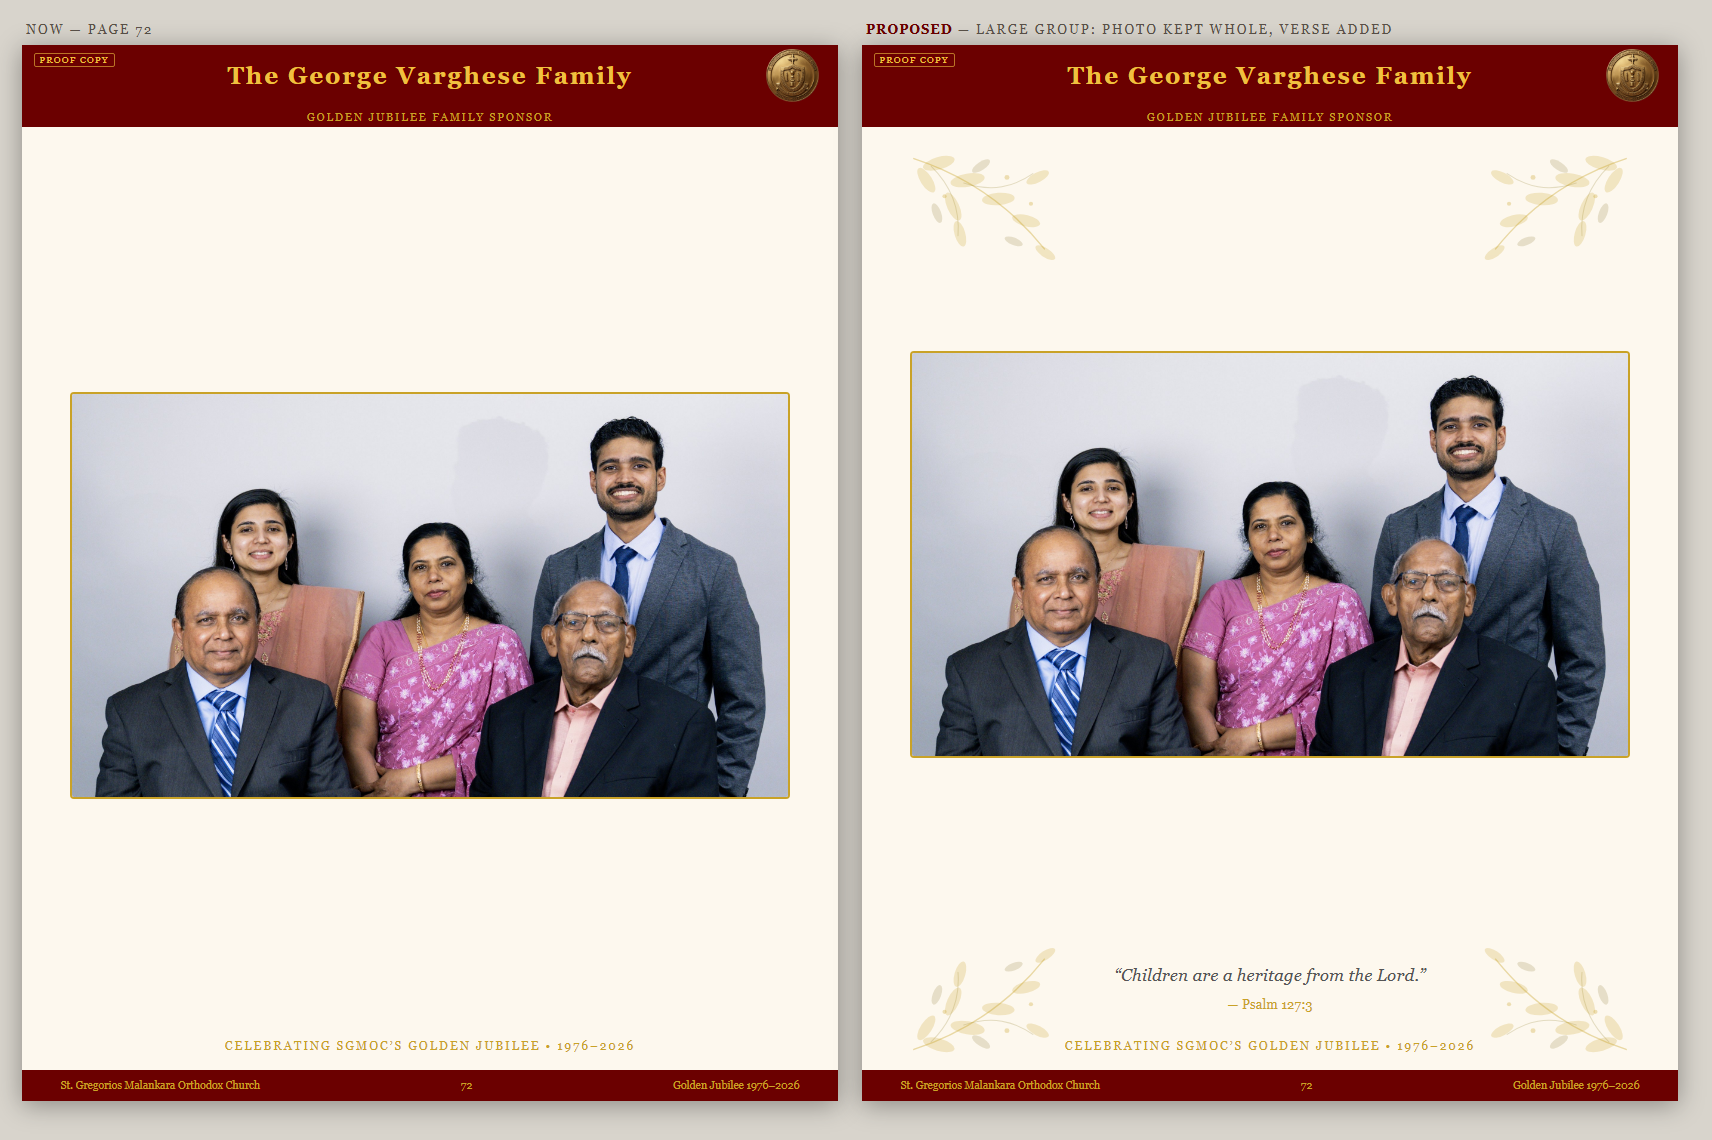
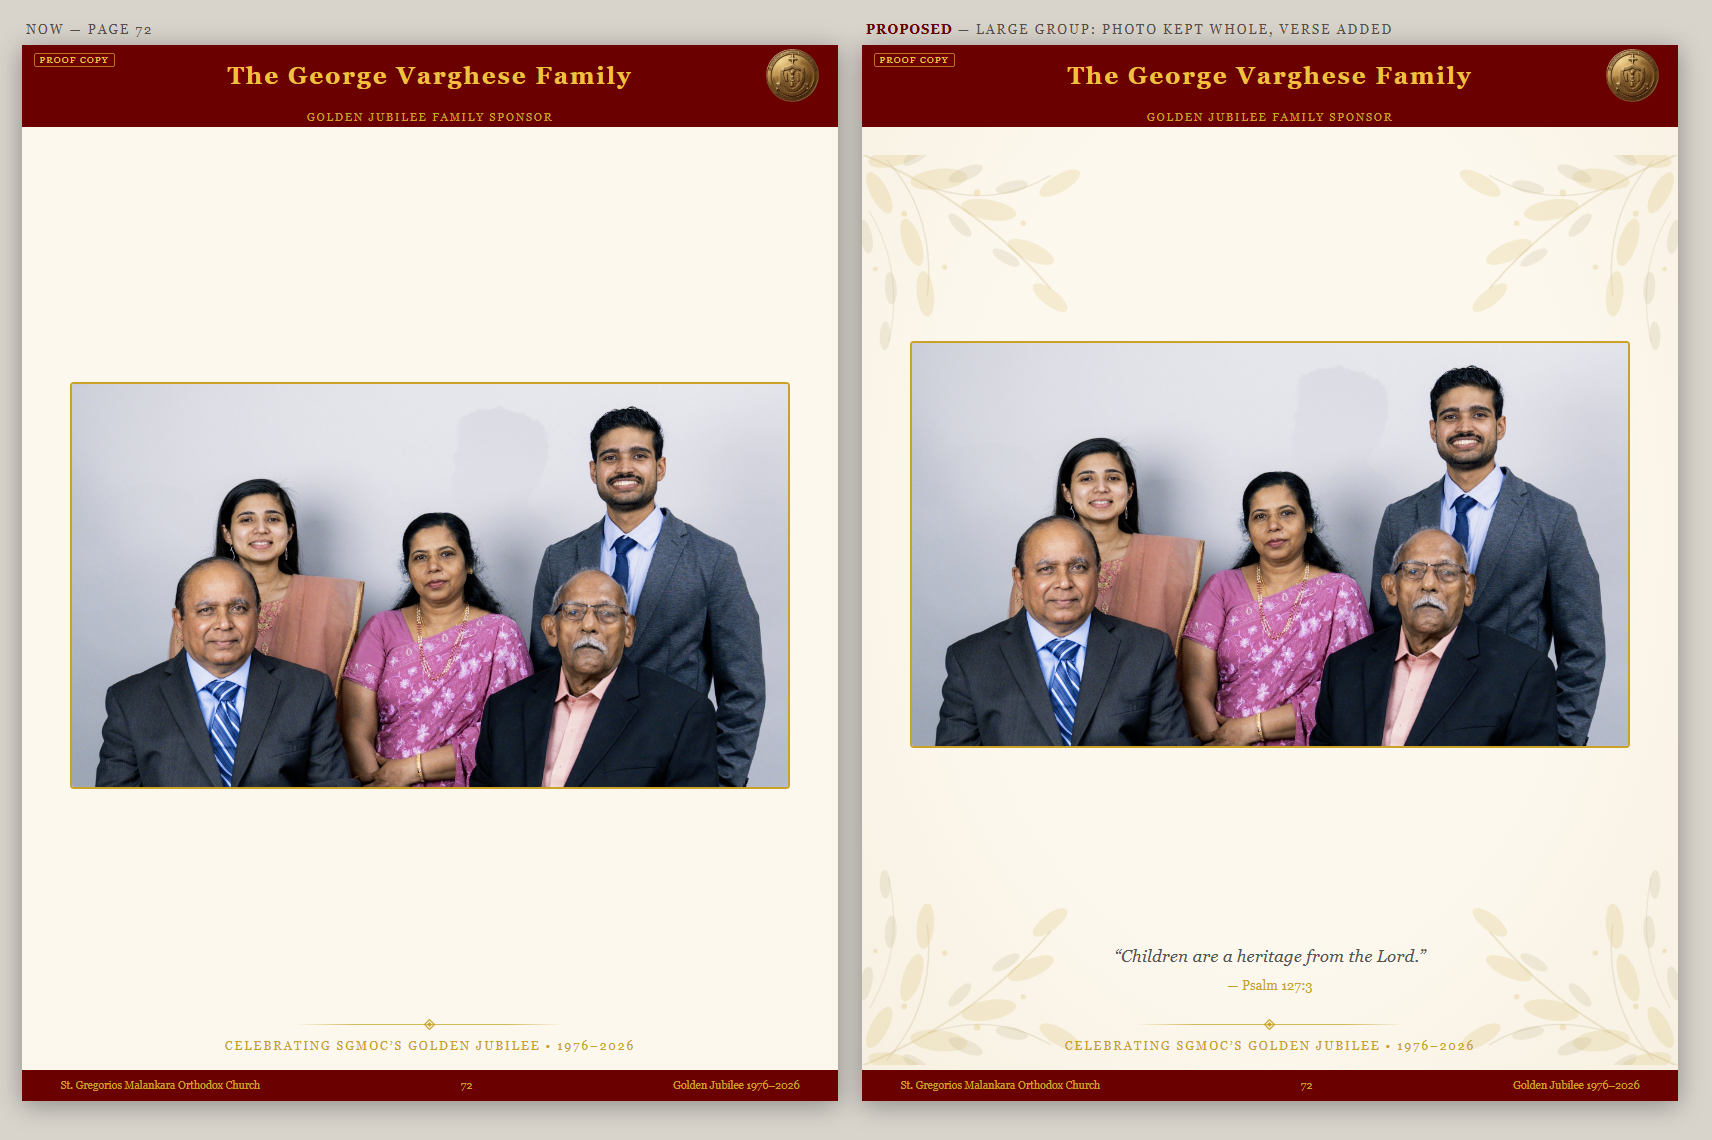
Crop the A. O. Abraham photos at source and stack them
Both submissions are photographs of framed prints. The frame rail, mat
and glare are cropped away at source, and the two photos now stack
rather than sitting side by side, so each is about 4.4in tall instead of
3.1in wide with nobody cut off. Side-by-side plus crop-to-fill was worse:
it sliced two people out of the group entirely.

Ornament is denser and reaches the page edges, with an aged edge tone and
a gold diamond divider, but is turned down and pulled in on pages with
writing so no leaf sits behind type.

Claude-Session: https://claude.ai/code/session_01VzfEJnHEP3TqbV477Pubb4

diff --git a/review-layout.html b/review-layout.html
@@ -154,8 +154,8 @@
       </div>
       <div class="rule-card">
         <span class="n">Also</span>
-        <h3>Corner ornament</h3>
-        <p>A leaf motif drawn to match the one on his mock-ups, on every family page. His came from outside our build, so this is an equivalent, not his file.</p>
+        <h3>Ornament and divider</h3>
+        <p>Denser corner sprays running out to the page edges, a warm aged tone towards the margins, and a gold rule with a centred diamond above the closing line — closer to his 16 September page. Fainter and pulled in on any page carrying writing, so no leaf sits behind a line of type.</p>
         <span class="count">80 pages</span>
       </div>
     </div>
@@ -169,7 +169,7 @@
     <p class="lede">Left is the page as it stands today; right is the same page rebuilt. Page numbers are unchanged.</p>
 
     <figure>
-      <img src="images/review/compare/babu-varghese.png?v=2" alt="The Babu Varghese Family page, before and after: the photo fills more of the page and a verse sits below it">
+      <img src="images/review/compare/babu-varghese.png?v=3" alt="The Babu Varghese Family page, before and after: the photo fills more of the page and a verse sits below it">
       <figcaption>
         <span class="pg">Page 58 · Babu Varghese</span>
         <span class="what">The page he signed off on. Photo takes more of the page, verse set larger.</span>
@@ -178,7 +178,7 @@
     </figure>
 
     <figure>
-      <img src="images/review/compare/manoj-samuel.png?v=2" alt="The Manoj Samuel Family page, before and after: the photo is cropped to fill the page">
+      <img src="images/review/compare/manoj-samuel.png?v=3" alt="The Manoj Samuel Family page, before and after: the photo is cropped to fill the page">
       <figcaption>
         <span class="pg">Page 87 · Manoj Samuel</span>
         <span class="what">Crop to fill, and the only page it is switched on for — three people, nobody lost.</span>
@@ -187,7 +187,7 @@
     </figure>
 
     <figure>
-      <img src="images/review/compare/george-varghese.png?v=2" alt="The George Varghese Family page, before and after: photo kept whole with a verse added below">
+      <img src="images/review/compare/george-varghese.png?v=3" alt="The George Varghese Family page, before and after: photo kept whole with a verse added below">
       <figcaption>
         <span class="pg">Page 72 · George Varghese</span>
         <span class="what">A large group, so the photo stays whole and a verse fills the space instead.</span>
@@ -196,16 +196,16 @@
     </figure>
 
     <figure>
-      <img src="images/review/compare/a-o-abraham.png?v=2" alt="The A. O. Abraham Family page, before and after: both photos enlarged with a verse below">
+      <img src="images/review/compare/a-o-abraham.png?v=3" alt="The A. O. Abraham Family page, before and after: both photos enlarged with a verse below">
       <figcaption>
         <span class="pg">Page 48 · A. O. Abraham</span>
-        <span class="what">His own mock-up cropped these two. Automatic cropping threw away the portrait frames and led with a band of wall, so they stay whole for now.</span>
-        <span class="flag hold">Needs a hand-picked crop</span>
+        <span class="what">Both submissions are photographs of framed prints, so the frame rail, mat and glare are now cropped away at source, and the two photos stack instead of sitting side by side — each about 4.4in tall rather than 3.1in wide, with nobody cut off. Still short of his version: his photos are portrait, which means he worked from the family's original files rather than our photographs of the frames.</span>
+        <span class="flag hold">Wants the original files</span>
       </figcaption>
     </figure>
 
     <figure>
-      <img src="images/review/compare/jacob-george.png?v=2" alt="The Jacob George Family page, before and after: both photos enlarged with a verse below">
+      <img src="images/review/compare/jacob-george.png?v=3" alt="The Jacob George Family page, before and after: both photos enlarged with a verse below">
       <figcaption>
         <span class="pg">Page 75 · Jacob George</span>
         <span class="what">The page he named. Automatic cropping deleted the baby from the left photo and halved a woman at the edge of the right one.</span>
@@ -214,7 +214,7 @@
     </figure>
 
     <figure>
-      <img src="images/review/compare/betcy-allen.png?v=2" alt="The Betcy Allen Family page, before and after: photo top left with text flowing beside and below it">
+      <img src="images/review/compare/betcy-allen.png?v=3" alt="The Betcy Allen Family page, before and after: photo top left with text flowing beside and below it">
       <figcaption>
         <span class="pg">Page 60 · Betcy Allen</span>
         <span class="what">Inline — the example he sent, rebuilt from our own content.</span>
@@ -223,7 +223,7 @@
     </figure>
 
     <figure>
-      <img src="images/review/compare/korah-mani.png?v=2" alt="The Korah Mani Family page, before and after: photo top left with the full narrative flowing around it">
+      <img src="images/review/compare/korah-mani.png?v=3" alt="The Korah Mani Family page, before and after: photo top left with the full narrative flowing around it">
       <figcaption>
         <span class="pg">Page 83 · Korah Mani</span>
         <span class="what">Inline — and it answers the question uncle asked on 5 August. All 445 words now fit at the normal 10pt, instead of squeezed into small type.</span>
@@ -232,7 +232,7 @@
     </figure>
 
     <figure>
-      <img src="images/review/compare/v-s-mathew.png?v=2" alt="The V. S. Mathew Family page, before and after: photo top left with text flowing beside and below it">
+      <img src="images/review/compare/v-s-mathew.png?v=3" alt="The V. S. Mathew Family page, before and after: photo top left with text flowing beside and below it">
       <figcaption>
         <span class="pg">Page 118 · V. S. Mathew</span>
         <span class="what">Photo across the full width, writing in two columns beneath it. Inline was tried here first and was wrong: 1,537 characters left the bottom third bare and held the photo to column width. Their second page, p119, was reset at the same time — larger type, no box, filling the page.</span>
